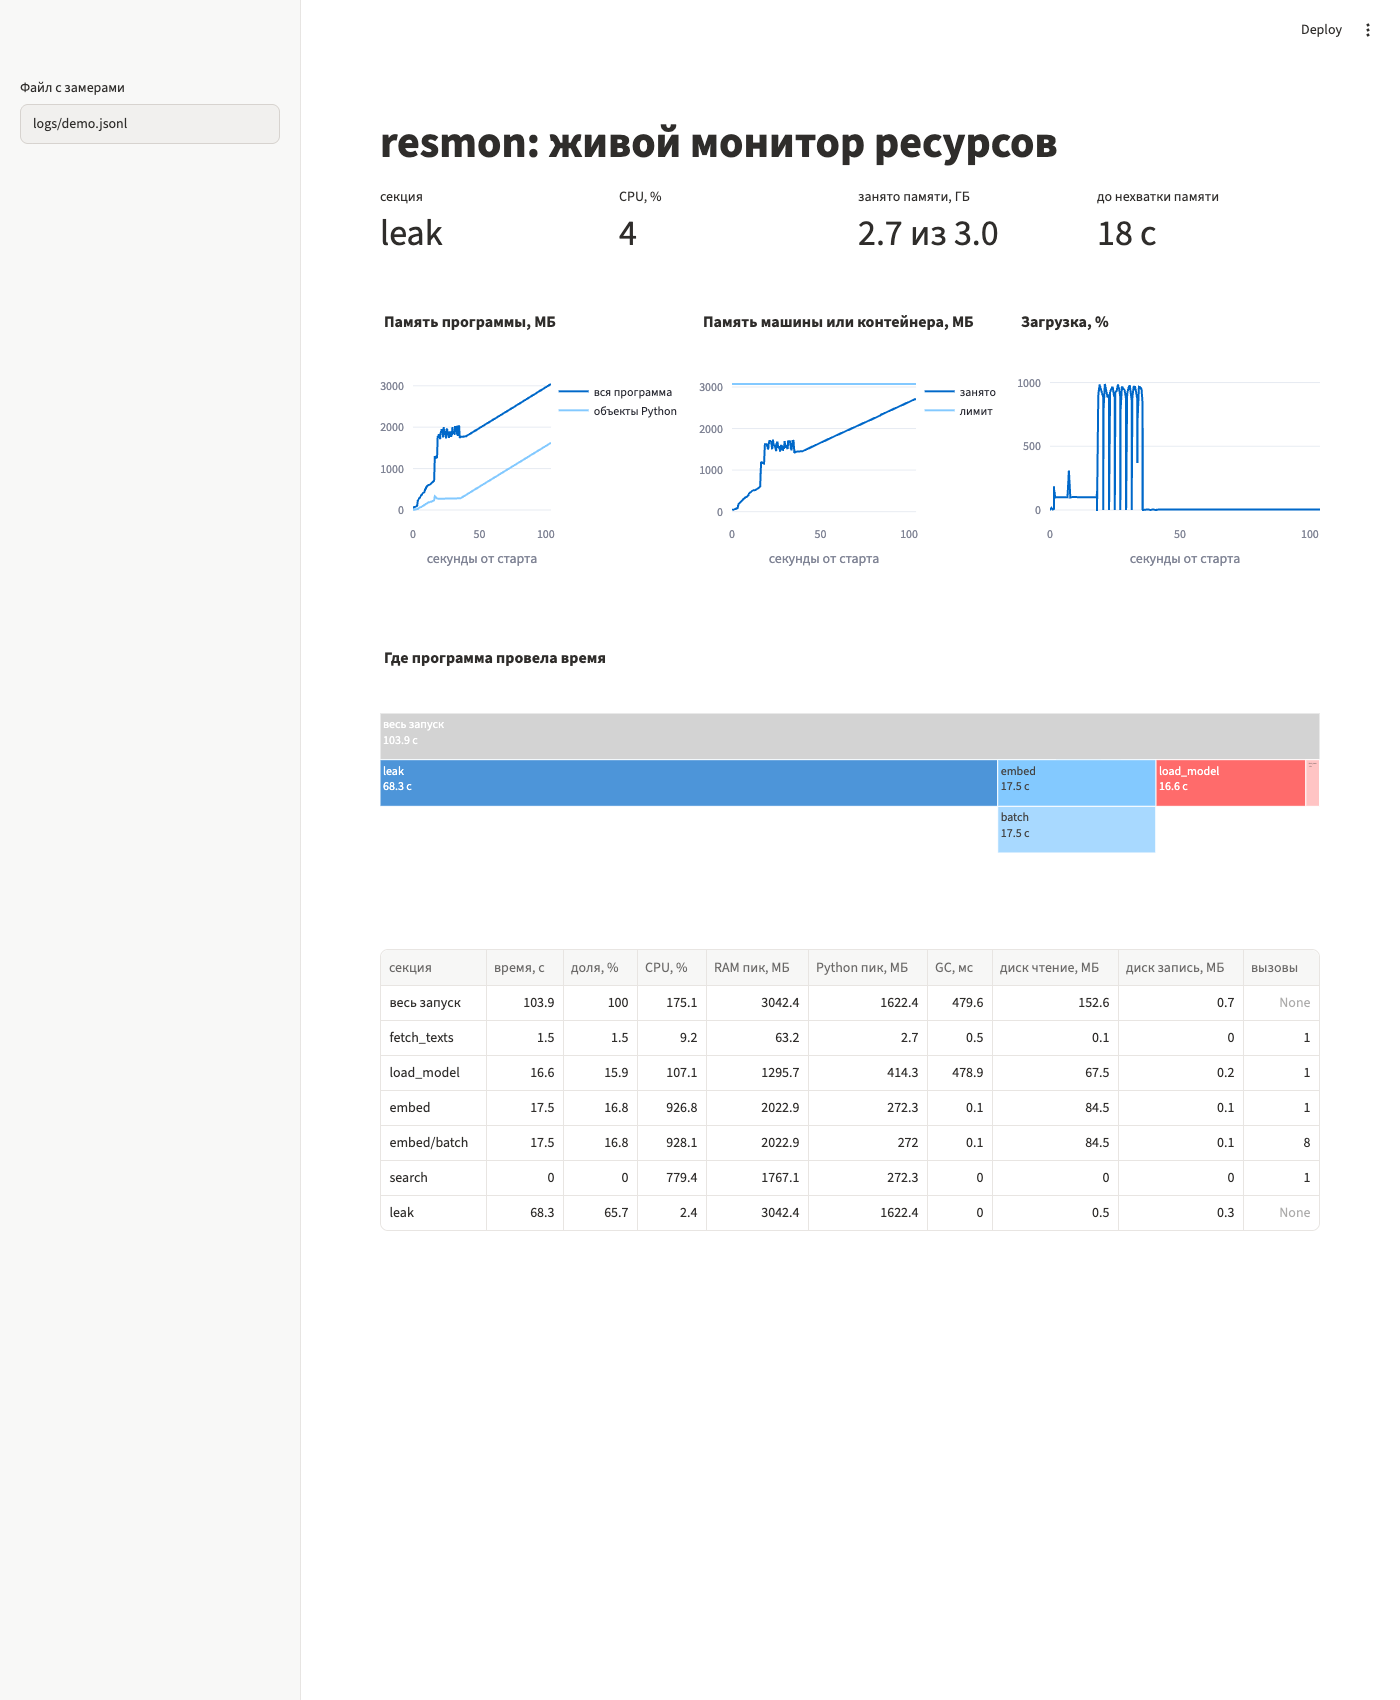
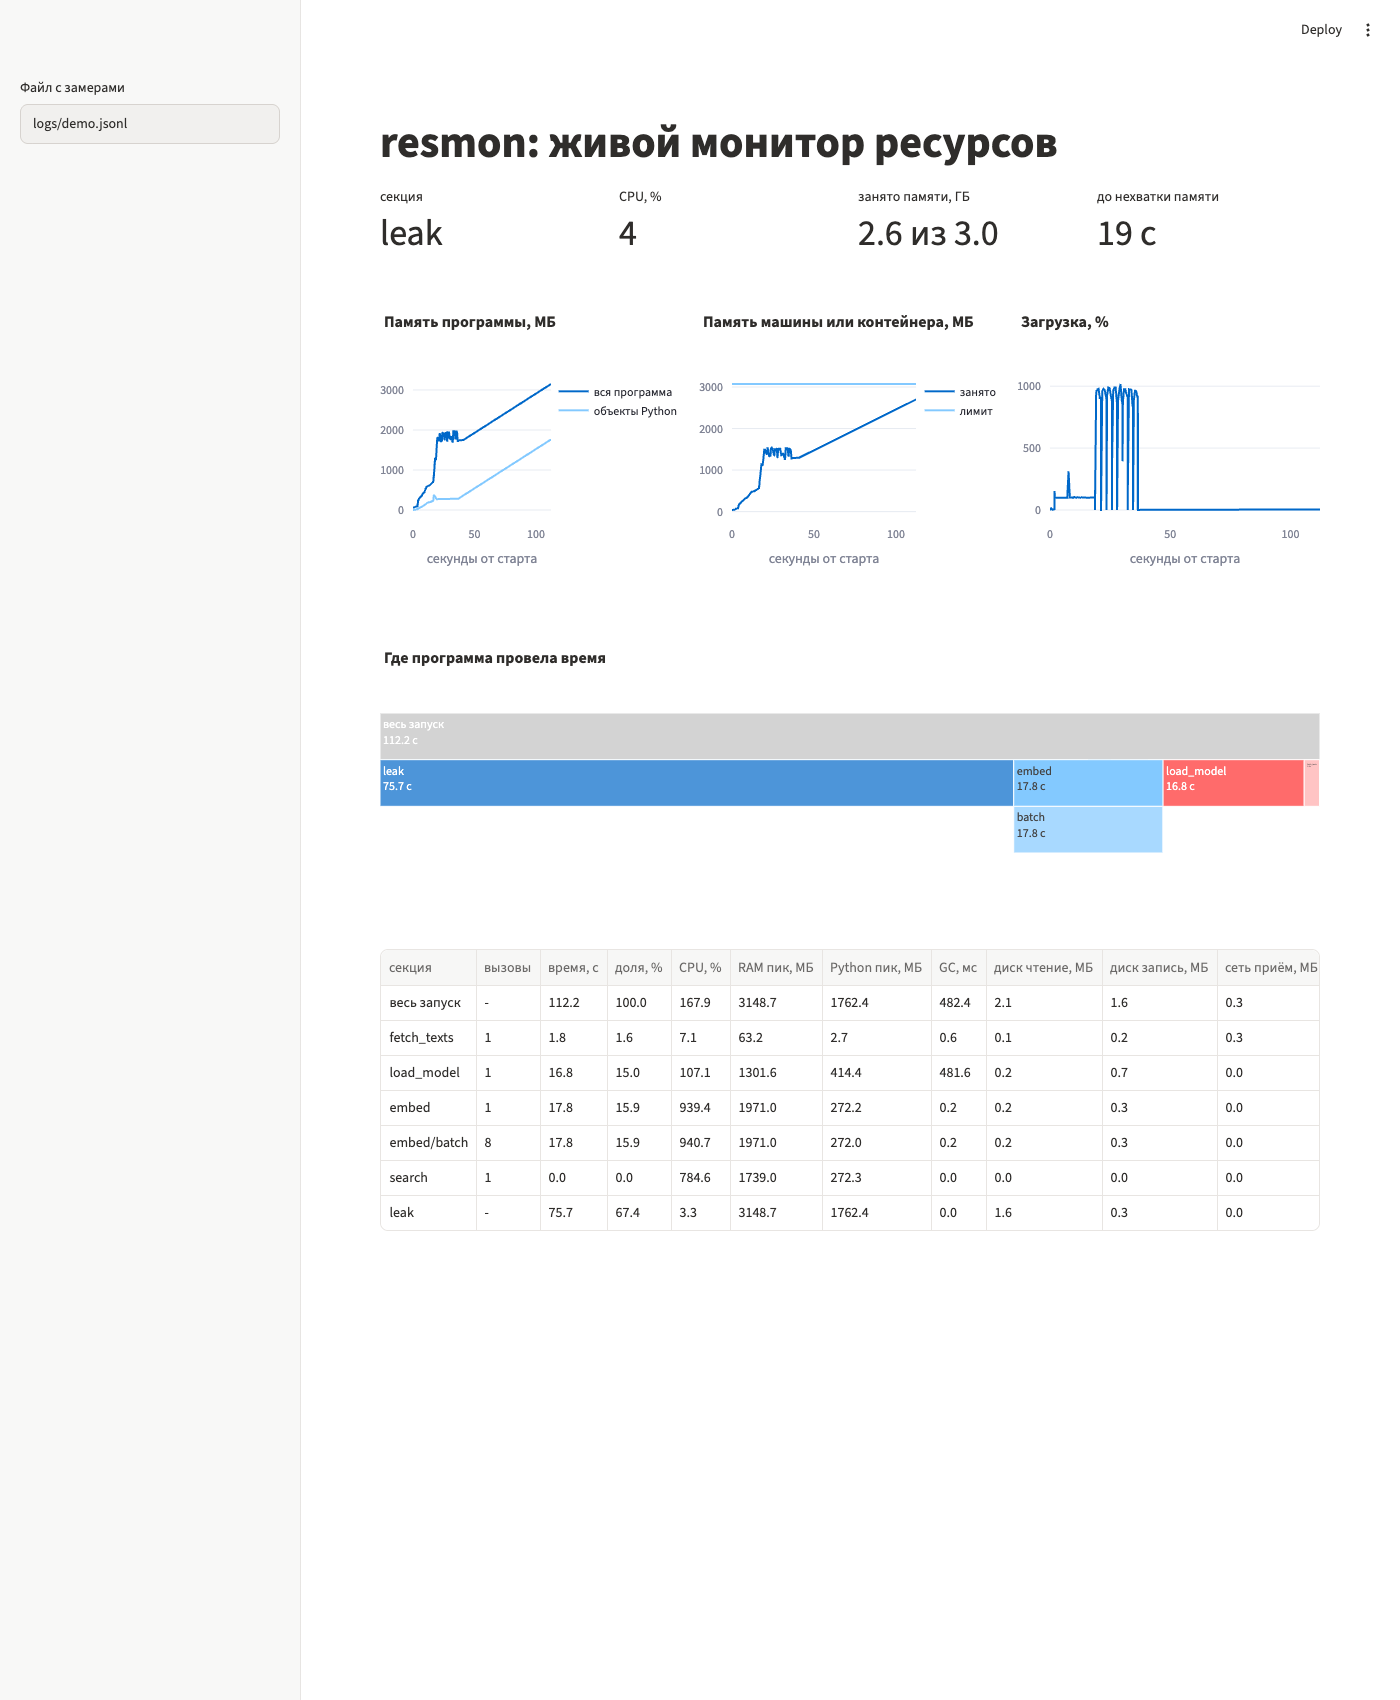
fix: apply final review: network in report, locked processes, report after stop, README

diff --git a/src/resmon/report.py b/src/resmon/report.py
@@ -2,6 +2,7 @@ from collections import Counter, defaultdict
 from itertools import pairwise
 from statistics import fmean
 
+from rich.markup import escape
 from rich.table import Table
 
 from resmon.core import Record
@@ -11,7 +12,7 @@ Stats = dict[str, dict[str, float]]
 # Как сводить метрику по секции: пик, среднее или прирост счётчика
 PEAKS = ("rss_mb", "py_peak_mb", "gpu_mem_mb")
 MEANS = ("cpu_percent", "gpu_percent")
-DELTAS = ("gc_ms", "disk_read_mb", "disk_write_mb")
+DELTAS = ("gc_ms", "disk_read_mb", "disk_write_mb", "net_recv_mb", "net_sent_mb")
 
 COLUMNS = {
     "calls": "вызовы",
@@ -25,6 +26,8 @@ COLUMNS = {
     "gc_ms": "GC, мс",
     "disk_read_mb": "диск чтение, МБ",
     "disk_write_mb": "диск запись, МБ",
+    "net_recv_mb": "сеть приём, МБ",
+    "net_sent_mb": "сеть отдача, МБ",
 }
 
 
@@ -98,7 +101,8 @@ def stats_table(stats: Stats, title: str = "Отчёт по секциям") -> 
     table = Table("секция", *(COLUMNS[k] for k in columns), title=title)
     for path, row in stats.items():
         name = "  " * path.count("/") + path.rsplit("/", 1)[-1] if path else "весь запуск"
-        table.add_row(name, *(cell(row.get(k), k) for k in columns))
+        # escape: квадратные скобки в имени секции rich иначе принял бы за разметку
+        table.add_row(escape(name), *(cell(row.get(k), k) for k in columns))
     return table
 
 
@@ -113,5 +117,5 @@ def compare_table(old: Stats, new: Stats) -> Table:
             a, b = old[path].get(key), new[path].get(key)
             change = f" ({(b - a) / a:+.0%})" if a and b is not None else ""
             cells.append(f"{cell(a, key)} → {cell(b, key)}{change}")
-        table.add_row(path or "весь запуск", *cells)
+        table.add_row(escape(path) or "весь запуск", *cells)
     return table

diff --git a/src/resmon/core.py b/src/resmon/core.py
@@ -45,13 +45,14 @@ class ProcessCollector(Collector):
     def collect(self) -> dict[str, float]:
         try:
             procs = [self.process, *self.process.children(recursive=True)]
-        except psutil.NoSuchProcess:
+        except psutil.Error:
             return {}
         # psutil считает CPU от прошлого вызова, поэтому храним старые объекты живых процессов
         self._known = {p.pid: self._known.get(p.pid, p) for p in procs}
         cpu = rss = 0.0
         for proc in self._known.values():
-            with contextlib.suppress(psutil.NoSuchProcess):
+            # Процесс мог уже завершиться, а к чужому системному у нас может не быть доступа
+            with contextlib.suppress(psutil.Error):
                 proc_cpu, proc_rss = proc.cpu_percent(), proc.memory_info().rss
                 cpu += proc_cpu
                 rss += proc_rss
@@ -77,11 +78,7 @@ class SystemCollector(Collector):
 
     def collect(self) -> dict[str, float]:
         used, limit = memory_usage_mb()
-        metrics = {
-            "ram_percent": psutil.virtual_memory().percent,
-            "mem_used_mb": used,
-            "mem_limit_mb": limit,
-        }
+        metrics = {"mem_used_mb": used, "mem_limit_mb": limit}
         if disk := psutil.disk_io_counters():
             metrics |= {
                 "disk_read_mb": disk.read_bytes / MB,

diff --git a/src/resmon/cli.py b/src/resmon/cli.py
@@ -39,12 +39,12 @@ def watched(
     log: Path, interval: float, collectors: list[Collector] | None = None
 ) -> Iterator[Monitor]:
     """Монитор с записью замеров в файл. В конце печатает отчёт, даже если всё упало."""
-    with (
-        closing(make_sink(log)) as sink,
-        Monitor(interval, sinks=[sink, OomForecast()], collectors=collectors) as monitor,
-    ):
+    with closing(make_sink(log)) as sink:
+        monitor = Monitor(interval, sinks=[sink, OomForecast()], collectors=collectors)
+        # Отчёт печатаем после остановки монитора, чтобы в него попал последний замер
         try:
-            yield monitor
+            with monitor:
+                yield monitor
         finally:
             console.print(stats_table(section_stats(monitor.records)))
 
@@ -66,7 +66,7 @@ def demo(
         found = run_demo(monitor, texts, leak_mb)
     console.print("Самые похожие отзывы:")
     for text in found:
-        console.print(f"- {text[:120]}")
+        console.print(f"- {text[:120]}", markup=False)
 
 
 @app.command(context_settings={"allow_interspersed_args": False})

diff --git a/tests/test_core.py b/tests/test_core.py
@@ -121,6 +121,20 @@ def test_process_counts_children(monkeypatch: pytest.MonkeyPatch, kids: int) -> 
     assert metrics == {"cpu_percent": 10.0 * (kids + 1), "rss_mb": 100.0 * (kids + 1)}
 
 
+class LockedProcess(FakeProcess):
+    """Чужой системный процесс, к которому нет доступа."""
+
+    def cpu_percent(self) -> float:
+        raise psutil.AccessDenied(self.pid)
+
+
+def test_locked_child_is_skipped(monkeypatch: pytest.MonkeyPatch) -> None:
+    parent = FakeProcess(1)
+    monkeypatch.setattr(parent, "children", lambda recursive: [LockedProcess(2)])
+    monkeypatch.setattr(psutil, "Process", lambda pid: parent)
+    assert ProcessCollector().collect() == {"cpu_percent": 10.0, "rss_mb": 100.0}
+
+
 def test_system_metrics() -> None:
     metrics = SystemCollector().collect()
     assert {"mem_used_mb", "mem_limit_mb", "disk_read_mb", "net_recv_mb"} <= metrics.keys()
@@ -173,7 +187,7 @@ def test_gc_collector_counts_collections() -> None:
 
 
 class NVMLError(Exception):
-    pass
+    """Ошибка из поддельного pynvml."""
 
 
 def fake_pynvml(driver: bool) -> SimpleNamespace:

diff --git a/src/resmon/sink.py b/src/resmon/sink.py
@@ -16,6 +16,7 @@ class JsonFormatter(logging.Formatter):
     BASE_FIELDS = set(vars(logging.makeLogRecord({}))) | {"message", "asctime"}
 
     def format(self, record: logging.LogRecord) -> str:
+        """Собрать строку JSON из записи лога."""
         data = {
             "time": self.formatTime(record),
             "level": record.levelname,
@@ -53,6 +54,7 @@ class JsonlSink:
         )
 
     def __call__(self, record: Record) -> None:
+        """Дописать запись строкой в файл."""
         line = json.dumps(record, ensure_ascii=False)
         self.handler.handle(logging.makeLogRecord({"msg": line}))
 
@@ -73,6 +75,7 @@ class SQLiteSink:
         self.db.execute("CREATE TABLE IF NOT EXISTS records (event TEXT, section TEXT, data TEXT)")
 
     def __call__(self, record: Record) -> None:
+        """Добавить запись в базу."""
         row = (record["event"], record["section"], json.dumps(record, ensure_ascii=False))
         self.db.execute("INSERT INTO records VALUES (?, ?, ?)", row)
 

diff --git a/src/resmon/ui.py b/src/resmon/ui.py
@@ -7,7 +7,7 @@ import streamlit as st
 
 from resmon.core import Record
 from resmon.forecast import HORIZON_S, WINDOW_S, OomForecast
-from resmon.report import COLUMNS, Stats, last_run, section_stats
+from resmon.report import COLUMNS, Stats, cell, last_run, section_stats
 from resmon.sink import read_records
 
 
@@ -100,11 +100,9 @@ def live(log: Path) -> None:
 
     stats = section_stats(records)
     st.plotly_chart(icicle(stats))
+    columns = [k for k in COLUMNS if any(k in row for row in stats.values())]
     rows = [
-        {
-            "секция": path or "весь запуск",
-            **{COLUMNS[k]: round(row[k], 1) for k in COLUMNS if k in row},
-        }
+        {"секция": path or "весь запуск", **{COLUMNS[k]: cell(row.get(k), k) for k in columns}}
         for path, row in stats.items()
     ]
     st.dataframe(rows, hide_index=True)

diff --git a/tests/test_report.py b/tests/test_report.py
@@ -127,3 +127,9 @@ def test_compare_takes_columns_from_both_runs(records: list[Record]) -> None:
     old = section_stats(records)
     new = {path: {**row, "gpu_mem_mb": 512.0} for path, row in old.items()}
     assert "- → 512.0" in text(compare_table(old, new))
+
+
+def test_network_per_section() -> None:
+    # Счётчик сети растёт с загрузки системы, в отчёт идёт прирост за секцию
+    records = [sample(0, net_recv_mb=1000), sample(1, "fetch", net_recv_mb=1003.5)]
+    assert section_stats(records)["fetch"]["net_recv_mb"] == pytest.approx(3.5)

diff --git a/src/resmon/forecast.py b/src/resmon/forecast.py
@@ -82,6 +82,7 @@ class OomForecast:
         return False
 
     def __call__(self, record: Record) -> None:
+        """Учесть замер и при новой тревоге написать предупреждение в лог."""
         if self.update(record) and self.ttl is not None:
             extra = {"ttl_s": round(self.ttl, 1), "mem_used_mb": round(record["mem_used_mb"])}
             log.warning("память кончится примерно через %.0f с", self.ttl, extra=extra)

diff --git a/src/resmon/demo.py b/src/resmon/demo.py
@@ -43,7 +43,7 @@ def fetch_texts(count: int) -> list[str]:
     except (httpx.HTTPError, ValueError, KeyError):
         log.warning("тексты не скачались, берём запасные", exc_info=True)
         texts = []
-    return texts or [FALLBACK[i % len(FALLBACK)] for i in range(count)]
+    return texts or list(FALLBACK)
 
 
 def load_model() -> Any:

diff --git a/tests/test_demo.py b/tests/test_demo.py
@@ -33,7 +33,7 @@ def test_fallback_without_network(
 ) -> None:
     respx_mock.get(ROWS_URL).mock(side_effect=[failure])
     texts = fetch_texts(6)
-    assert texts == [*FALLBACK, *FALLBACK[:2]]
+    assert texts == list(FALLBACK)
 
 
 @pytest.mark.usefixtures("fake_model", "hf_api")
